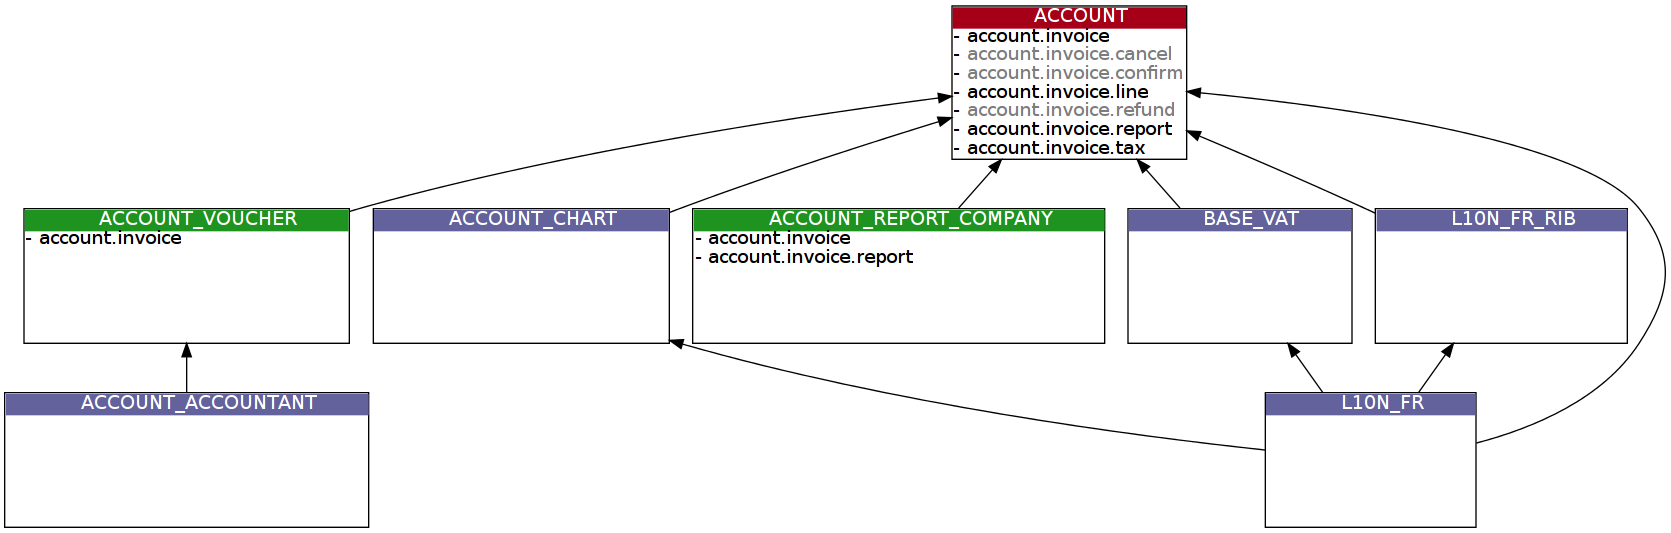
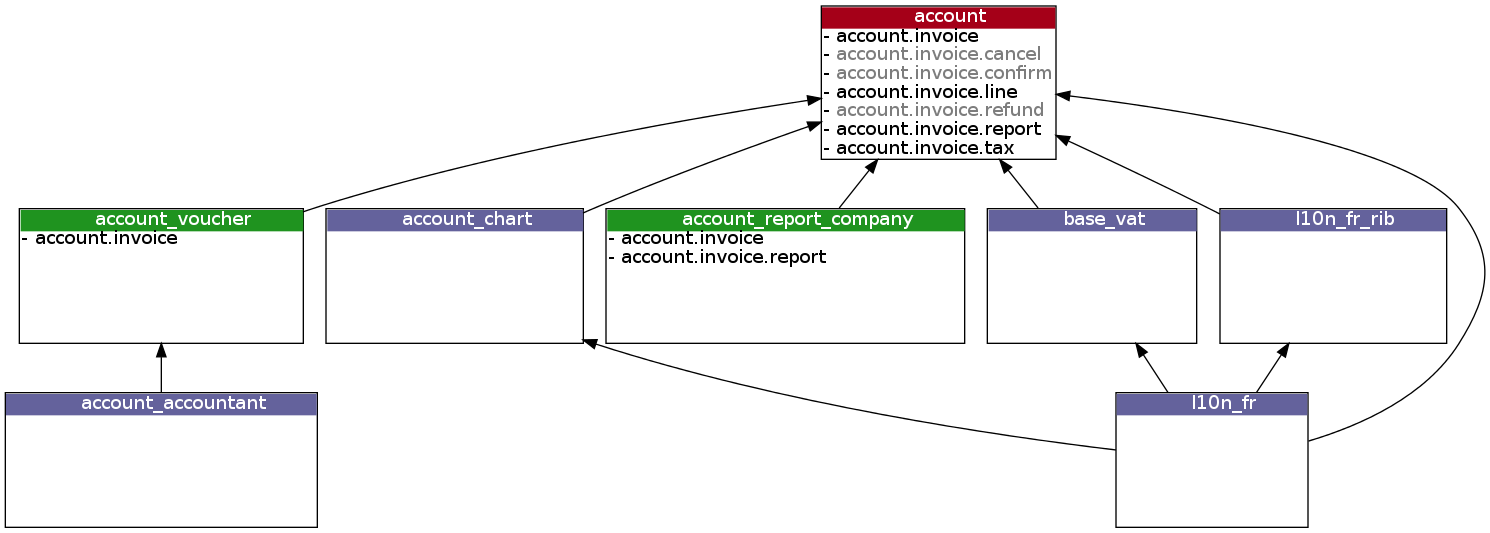
'inspect.dependencies': display module names in lowercase + documentation updated

diff --git a/oerplib/service/inspect/dependencies.py b/oerplib/service/inspect/dependencies.py
@@ -392,7 +392,7 @@ class Dependencies(object):
                 module_color_title=module_color_title,
                 module_bgcolor_title=module_bgcolor_title,
                 module_bgcolor=self._config['module_bgcolor'],
-                name=module.upper(),
+                name=module.lower(),
                 models=''.join(tpl_models),
                 comment=tpl_comment or '')
             return tpl
